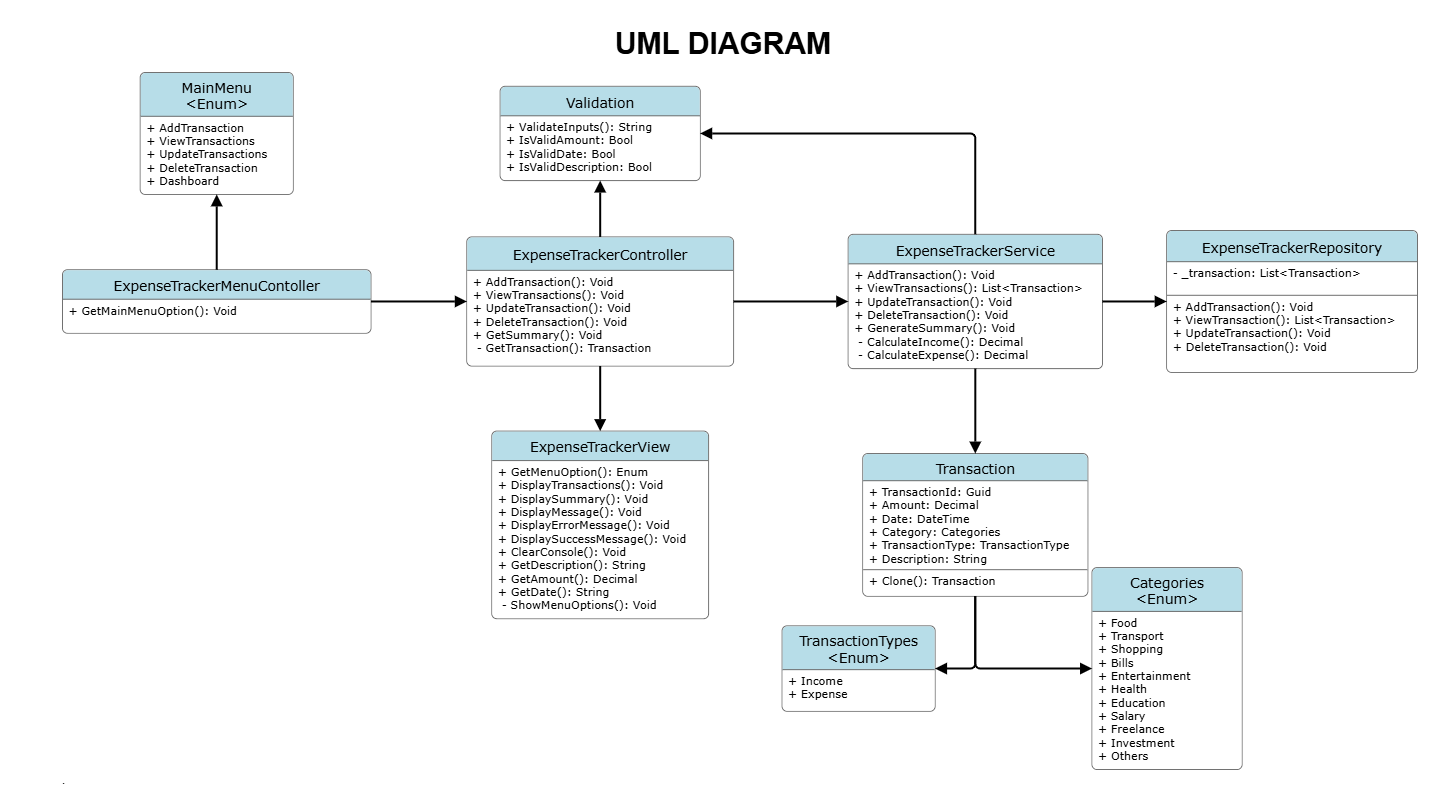
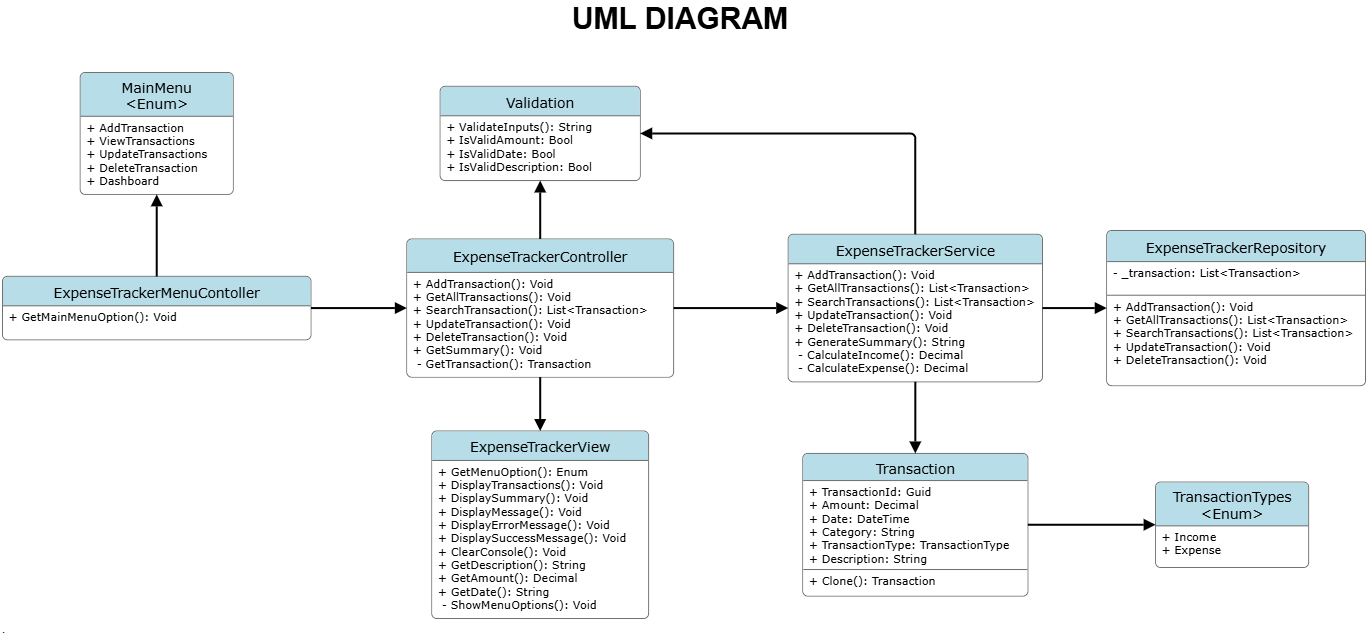
build: repository layer

Changed region(s): [[0.0, 0.0, 1.0, 0.9828], [0.7687, 0.4765, 0.9839, 0.5956], [0.9839, 0.4467, 1.0, 0.4765]]

diff --git a/src/ExpenseTracker/Repository/Repository.cs b/src/ExpenseTracker/Repository/Repository.cs
@@ -1,0 +1,77 @@
+using ExpenseTracker.Models;
+
+namespace ExpenseTracker.Repository;
+
+/// <summary>
+/// Performs read and write operations into the list (CRUD).
+/// </summary>
+public class Repository : IRepository
+{
+    private readonly List<Transaction> _transactions = new ();
+
+    /// <summary>
+    /// Adds transaction to the transaction list.
+    /// </summary>
+    /// <param name="transaction"> Instance of the transaction. </param>
+    public void AddTransaction(Transaction transaction)
+    {
+        this._transactions.Add(transaction);
+    }
+
+    /// <summary>
+    /// Gets all transactions from the list.
+    /// </summary>
+    /// <returns> List of transactions. </returns>
+    public List<Transaction> GetAllTransactions()
+    {
+        return this._transactions.Select(transaction => transaction.Clone()).ToList();
+    }
+
+    /// <summary>
+    /// Search transactions in list based on search word entered by user.
+    /// </summary>
+    /// <param name="searchWord"> Word to search in the transaction list. </param>
+    /// <returns> List of transactions that contains the search word. </returns>
+    public List<Transaction> SearchTransactions(string searchWord)
+    {
+        return this._transactions.Where(transaction => transaction.Description.Contains(searchWord, StringComparison.OrdinalIgnoreCase)
+                                 || transaction.Category.Contains(searchWord, StringComparison.OrdinalIgnoreCase))
+                                 .Select(transaction => transaction.Clone())
+                                 .ToList();
+    }
+
+    /// <summary>
+    /// Deletes the transaction from the list.
+    /// </summary>
+    /// <param name="transactionId"> Transaction id of transaction to delete. </param>
+    public void DeleteTransaction(Guid transactionId)
+    {
+        foreach (Transaction transaction in this._transactions)
+        {
+            if (transaction.TransactionId.Equals(transactionId))
+            {
+                this._transactions.Remove(transaction);
+                break;
+            }
+        }
+    }
+
+    /// <summary>
+    /// Update the value of a transaction in transaction list.
+    /// </summary>
+    /// <param name="updatedTransaction"> Instance of transaction containing edited values. </param>
+    public void EditTransaction(Transaction updatedTransaction)
+    {
+        foreach (Transaction transaction in this._transactions)
+        {
+            if (transaction.TransactionId.Equals(updatedTransaction.TransactionId))
+            {
+                transaction.Date = updatedTransaction.Date;
+                transaction.Amount = updatedTransaction.Amount;
+                transaction.Category = updatedTransaction.Category;
+                transaction.Description = updatedTransaction.Description;
+                break;
+            }
+        }
+    }
+}

diff --git a/src/ExpenseTracker/Repository/IRepository.cs b/src/ExpenseTracker/Repository/IRepository.cs
@@ -1,4 +1,4 @@
-using System.Transactions;
+using ExpenseTracker.Models;
 
 namespace ExpenseTracker.Repository;
 
@@ -29,12 +29,12 @@ public interface IRepository
     /// <summary>
     /// Deletes the transaction from the list.
     /// </summary>
-    /// <param name="transaction"> Instance of transaction to delete. </param>
-    void DeleteTransaction(Transaction transaction);
+    /// <param name="transactionId"> Transaction id of transaction to delete. </param>
+    public void DeleteTransaction(Guid transactionId);
 
     /// <summary>
     /// Update the value of a transaction in transaction list.
     /// </summary>
-    /// <param name="transaction"> Instance of transaction containing edited values. </param>
-    void EditTransaction(Transaction transaction);
+    /// <param name="updatedTransaction"> Instance of transaction containing edited values. </param>
+    void EditTransaction(Transaction updatedTransaction);
 }

diff --git a/src/ExpenseTracker/Models/Transaction.cs b/src/ExpenseTracker/Models/Transaction.cs
@@ -14,22 +14,22 @@ public class Transaction
     public Guid TransactionId { get; set; }
 
     /// <summary>
-    /// Gets or sets amount.
-    /// </summary>
-    /// <value> Amount transferred in the transaction.</value>
-    public decimal Amount { get; set; }
-
-    /// <summary>
     /// Gets or sets date.
     /// </summary>
     /// <value> Date of transaction. </value>
     public DateTime Date { get; set; }
 
     /// <summary>
+    /// Gets or sets amount.
+    /// </summary>
+    /// <value> Amount transferred in the transaction.</value>
+    public decimal Amount { get; set; }
+
+    /// <summary>
     /// Gets or sets transaction category.
     /// </summary>
     /// <value> Transaction category. </value>
-    public Categories Category { get; set; }
+    public string Category { get; set; } = string.Empty;
 
     /// <summary>
     /// Gets or sets transaction type.

diff --git a/src/ExpenseTracker/Constants/UserPrompts.cs b/src/ExpenseTracker/Constants/UserPrompts.cs
@@ -36,6 +36,11 @@ public class UserPrompts
     public const string GetDate = "Enter transaction date:";
 
     /// <summary>
+    /// Represents the prompt requesting the user to enter transaction category.
+    /// </summary>
+    public const string GetCategory = "Enter transaction category:";
+
+    /// <summary>
     /// Represents the prompt requesting the user to enter transaction description.
     /// </summary>
     public const string GetDescription = "Enter transaction description:";

diff --git a/src/ExpenseTracker/Service/IService.cs b/src/ExpenseTracker/Service/IService.cs
@@ -29,8 +29,8 @@ public interface IService
     /// <summary>
     /// Deletes the transaction from the transaction list.
     /// </summary>
-    /// <param name="transaction"> Instance of transaction to delete. </param>
-    void DeleteTransaction(Transaction transaction);
+    /// <param name="transactionId"> Transaction id of transaction to delete. </param>
+    void DeleteTransaction(Guid transactionId);
 
     /// <summary>
     /// Update the value of transaction in transaction list.

diff --git a/src/ExpenseTracker/Constants/ErrorMessages.cs b/src/ExpenseTracker/Constants/ErrorMessages.cs
@@ -40,6 +40,12 @@ public class ErrorMessages
     /// </summary>
     public const string InvalidDate = "ENTER A VALID DATE";
 
+
+    /// <summary>
+    /// Represents the message displayed when user enter an invalid category.
+    /// </summary>
+    public const string InvalidCategory = "CATEGORY SHOULD BE LESS THAN 50 CHARACTERS.";
+
     /// <summary>
     /// Represents the message displayed when user enter an invalid description.
     /// </summary>
